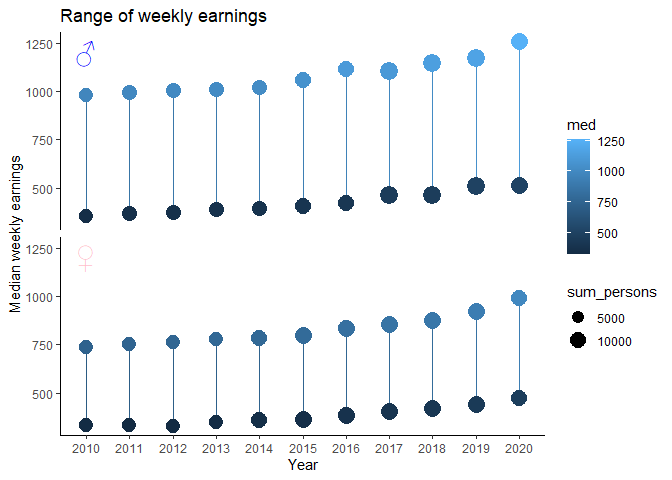
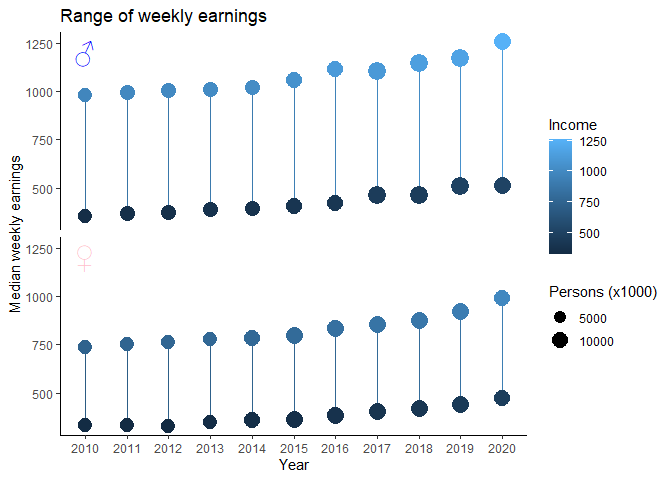
add a couple of labels

diff --git a/2021-02-23/readme.md b/2021-02-23/readme.md
@@ -91,7 +91,8 @@ ggplot(aes(x = factor(year), xend = factor(year)), data = earn3) +
   theme(
     strip.background = element_blank(),
     strip.text.y = element_blank()
-  )
+  ) +
+  labs(col = "Income", size = "Persons (x1000)")
 ```
 
 ![](readme_files/figure-gfm/unnamed-chunk-3-1.png)<!-- -->
